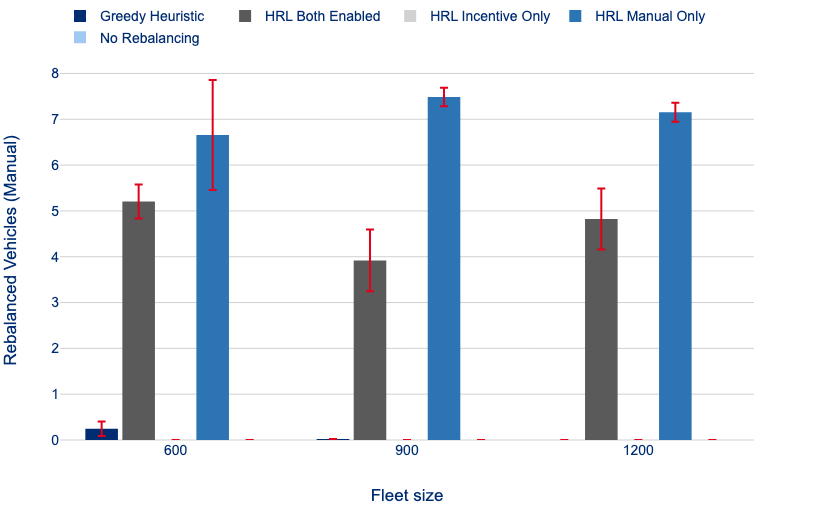
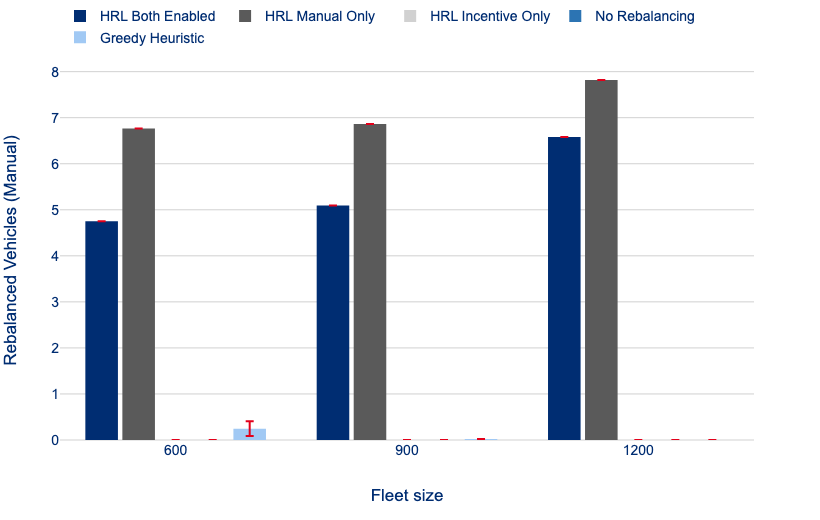
Update evaluation tables and figures based on final results

diff --git a/content/06_evaluation.tex b/content/06_evaluation.tex
@@ -287,30 +287,30 @@ Best values for each metric and fleet size scenario are highlighted in bold in t
 \begin{table}[!htb]
     \centering
     \begin{tabularx}{\textwidth}{lXXXX}
-        \toprule
-        \textbf{Configuration} & \textbf{Satisfied Demand Ratio} & \textbf{Manual Rebalancing Cost} & \textbf{Incentive Rebalancing Cost} & \textbf{Gini Coefficient} \\
-        \midrule
-        \multicolumn{5}{l}{\textit{Fleet Size: 600 (67\%)}} \\
-        HRL Both Enabled & [0.4702] & [5.204] & [53.89] & [0.6694] \\
-        HRL Manual Only & [\textbf{0.7176}] & [6.658] & [\textbf{0}] & [\textbf{0.3644}] \\
-        HRL Incentive Only & [0.4957] & [\textbf{0}] & [54.56] & [0.6946] \\
-        No Rebalancing & [0.6956] & [\textbf{0}] & [\textbf{0}] & [0.4701] \\
-        Greedy Heuristic & [0.6849] & [0.2457] & [46.28] & [0.4346] \\
-        \midrule
-        \multicolumn{5}{l}{\textit{Fleet Size: 900 (100\%)}} \\
-        HRL Both Enabled & [0.5985] & [3.919] & [55.45] & [0.6052] \\
-        HRL Manual Only & [\textbf{0.8385}] & [7.485] & [\textbf{0}] & [\textbf{0.2971}] \\
-        HRL Incentive Only & [0.5401] & [\textbf{0}] & [55.8] & [0.6835] \\
-        No Rebalancing & [0.7972] & [\textbf{0}] & [\textbf{0}] & [0.4059] \\
-        Greedy Heuristic & [0.7876] & [0.02] & [35.76] & [0.3807] \\
-        \midrule
-        \multicolumn{5}{l}{\textit{Fleet Size: 1200 (133\%)}} \\
-        HRL Both Enabled & [0.6501] & [4.825] & [55.74] & [0.5806] \\
-        HRL Manual Only & [\textbf{0.892}] & [7.153] & [\textbf{0}] & [\textbf{0.2804}] \\
-        HRL Incentive Only & [0.5696] & [\textbf{0}] & [56.21] & [0.6647] \\
-        No Rebalancing & [0.8611] & [\textbf{0}] & [\textbf{0}] & [0.3632] \\
-        Greedy Heuristic & [0.8548] & [\textbf{0}] & [27.16] & [0.3478] \\
-        \bottomrule
+    \toprule
+    \textbf{Configuration} & \textbf{Satisfied Demand Ratio} & \textbf{Manual Rebal Cost} & \textbf{Incentive Rebal Cost} & \textbf{Gini Coefficient} \\
+    \midrule
+    \multicolumn{5}{l}{\textit{Fleet Size: 600 (67\%)}} \\
+    HRL Both Enabled & [0.4774] & [4.749] & [19.75] & [0.5854] \\
+    HRL Manual Only & [\textbf{0.7477}] & [6.765] & [\textbf{0}] & [\textbf{0.2814}] \\
+    HRL Incentive Only & [0.4784] & [\textbf{0}] & [19.2] & [0.5583] \\
+    No Rebalancing & [0.6956] & [\textbf{0}] & [\textbf{0}] & [0.4701] \\
+    Greedy Heuristic & [0.6849] & [0.2457] & [46.28] & [0.4346] \\
+    \midrule
+    \multicolumn{5}{l}{\textit{Fleet Size: 900 (100\%)}} \\
+    HRL Both Enabled & [0.6389] & [5.096] & [19.65] & [0.4677] \\
+    HRL Manual Only & [\textbf{0.8438}] & [6.865] & [\textbf{0}] & [\textbf{0.241}] \\
+    HRL Incentive Only & [0.532] & [\textbf{0}] & [19.24] & [0.5483] \\
+    No Rebalancing & [0.7972] & [\textbf{0}] & [\textbf{0}] & [0.4059] \\
+    Greedy Heuristic & [0.7876] & [0.02] & [35.76] & [0.3807] \\
+    \midrule
+    \multicolumn{5}{l}{\textit{Fleet Size: 1200 (133\%)}} \\
+    HRL Both Enabled & [0.7198] & [6.58] & [19.65] & [0.4592] \\
+    HRL Manual Only & [\textbf{0.903}] & [7.82] & [\textbf{0}] & [\textbf{0.2038}] \\
+    HRL Incentive Only & [0.5641] & [\textbf{0}] & [19.26] & [0.5411] \\
+    No Rebalancing & [0.8611] & [\textbf{0}] & [\textbf{0}] & [0.3632] \\
+    Greedy Heuristic & [0.8548] & [\textbf{0}] & [27.16] & [0.3478] \\
+    \bottomrule
     \end{tabularx}
     \caption{Summary of Evaluation Results Across All Models and Fleet Size Scenarios. This table presents the comprehensive performance comparison of the full HRL framework and the four baselines across three distinct fleet size scenarios: balanced (100\%), undersupply (67\%), and oversupply (133\%). Performance is measured using four key metrics: Satisfied Demand Ratio, Manual Rebalancing Cost, Incentive Rebalancing Cost, and the Gini Coefficient. These results provide a quantitative basis for analyzing the efficacy, cost-effectiveness, and robustness of the proposed hierarchical approach compared to simpler strategies.}
     \label{tab:full_results_summary}
